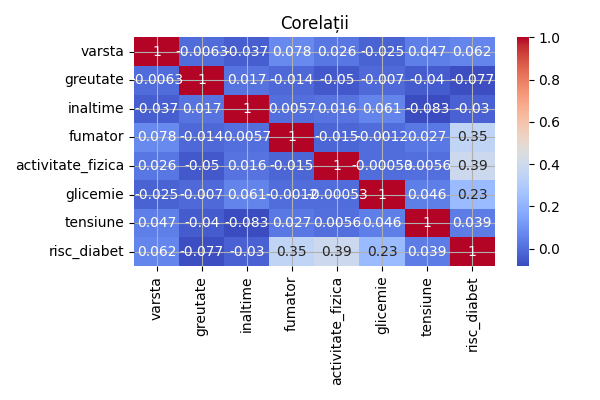
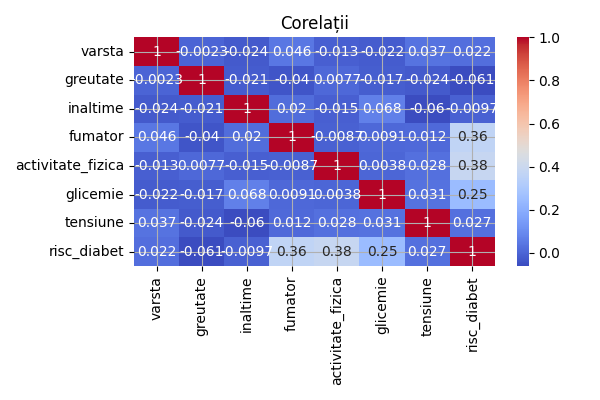
Done

diff --git a/ParteaI/main.py b/ParteaI/main.py
@@ -1,17 +1,14 @@
 import numpy as np
 import pandas as pd
 from data_load import generate_patient_data
-from plot import Heatmap
+from plot import Heatmap, Heatmap2
 from print import printf
 from model import train
 from read_data import read
-from missing_values import generate_missing_values
-from missing_values import fill_missing_values
-from descriptive import description
-from descriptive import variable_distribution
-from descriptive import boxplot
-from descriptive import replace_absurd_values
-from plot import violin_plots
+from missing_values import generate_missing_values, fill_missing_values
+from descriptive import description, variable_distribution, boxplot, variable_distribution2, boxplot2, replace_absurd_values
+from plot import violin_plots, violin_plots2
+from type import type
 
 print()
 print("Do you want to generate a new dataset? (y/n)")
@@ -24,23 +21,43 @@ else:
     df = pd.read_csv("train.csv")
 
 # Le facem de tip category
-df['fumator'] = df['fumator'].astype('category')
-df['risc_diabet'] = df['risc_diabet'].astype('category')
-df['activitate_fizica'] = df['activitate_fizica'].astype('category')
+df = type(df)
 
 
+# Generam valori lipsa
 generate_missing_values(df)
+# Inlocuim valorile lipsa
 fill_missing_values(df)
+# Facem o descriere a datelor
 description(df)
 variable_distribution(df)
 boxplot(df)
+# Inlocuim valorile absurde
 replace_absurd_values(df)
 
 
 
 
 train_df, test_df, y_pred, y_test = train(df)
-printf(y_test, y_pred)
-
+# Printam predictiile vs realitate
 violin_plots(df)
-Heatmap(train_df)
+Heatmap(df)
+printf(y_test, y_pred)
+test_df = type(test_df)
+
+# Pentru datele de test
+# Facem o descriere a datelor
+print("Statistici teste:")
+print()
+# Generam valori lipsa
+generate_missing_values(test_df)
+# Inlocuim valorile lipsa
+fill_missing_values(test_df)
+# Facem o descriere a datelor
+description(test_df)
+variable_distribution2(test_df)
+boxplot2(test_df)
+
+# Plotam datele
+violin_plots2(test_df)
+Heatmap2(test_df)

diff --git a/ParteaI/descriptive.py b/ParteaI/descriptive.py
@@ -32,6 +32,7 @@ def variable_distribution(df):
         plt.savefig(f'images/hist/{col}_countplot.png')
         plt.close()
 
+
 def boxplot(df):
     numeric_cols = df.select_dtypes(include=['int64', 'float64']).columns
     for col in numeric_cols:
@@ -39,6 +40,35 @@ def boxplot(df):
         sns.boxplot(x=df[col])
         plt.title(f'Boxplot: {col}')
         plt.savefig(f'images/boxplot/{col}_boxplot.png')
+        plt.close()
+
+def variable_distribution2(df):
+    numeric_cols = df.select_dtypes(include=['int64', 'float64']).columns
+    categorical_cols = df.select_dtypes(include=['object', 'category']).columns 
+    
+    # histograma pentru variabile numerice
+    for col in numeric_cols:
+        plt.figure()
+        sns.histplot(df[col], kde=True)
+        plt.title(f'Distribuția: {col}')
+        plt.savefig(f'images/hist/{col}_hist-test.png')
+        plt.close()
+
+    # Countplot pentru categorice
+    for col in categorical_cols:
+        plt.figure()
+        sns.countplot(x=col, data=df)
+        plt.title(f'Distribuție categorică: {col}')
+        plt.savefig(f'images/hist/{col}_countplot-test.png')
+        plt.close()
+
+def boxplot2(df):
+    numeric_cols = df.select_dtypes(include=['int64', 'float64']).columns
+    for col in numeric_cols:
+        plt.figure()
+        sns.boxplot(x=df[col])
+        plt.title(f'Boxplot: {col}')
+        plt.savefig(f'images/boxplot/{col}_boxplot-test.png')
         plt.close()
 
 def replace_absurd_values(df):

diff --git a/ParteaI/plot.py b/ParteaI/plot.py
@@ -14,7 +14,7 @@ def Heatmap(train_df):
 
 def violin_plots(df):
     target = 'risc_diabet'
-    cols = [df.columns[i] for i in range(1, 7)]
+    cols = [df.columns[i] for i in range(0, 7)]
     target = 'risc_diabet'
 
     for col in cols:
@@ -26,6 +26,28 @@ def violin_plots(df):
         plt.grid(True)
         plt.tight_layout()
         plt.savefig(f'images/violin/violin_{col}_vs_{target}.png')  # salvează imaginea
+
+def Heatmap2(train_df):
+    corr = train_df.corr()
+    sns.heatmap(corr, annot=True, cmap='coolwarm')
+    plt.title("Corelații")
+    plt.tight_layout()
+    plt.savefig(f'images/Heatmap-test.png')
+
+def violin_plots2(df):
+    target = 'risc_diabet'
+    cols = [df.columns[i] for i in range(0, 7)]
+    target = 'risc_diabet'
+
+    for col in cols:
+        plt.figure(figsize=(6, 4))
+        sns.violinplot(x=target, y=col, data=df)
+        plt.title(f'Violin Plot: {col} vs. {target}')
+        plt.xlabel('Risc Diabet')
+        plt.ylabel(col.capitalize())
+        plt.grid(True)
+        plt.tight_layout()
+        plt.savefig(f'images/violin/violin_{col}_vs_{target}-test.png')  # salvează imaginea
 
 
 if __name__ == '__main__':

diff --git a/ParteaI/model.py b/ParteaI/model.py
@@ -7,10 +7,10 @@ import pandas as pd
 
 def train(df):
 
-# Split train/test
+# Impartim datele in train si test
     train_df, test_df = train_test_split(df, test_size=0.285, random_state=42)
 
-# Encode categorice
+# Encodam datele
     combined = pd.concat([train_df, test_df])
     for col in ['activitate_fizica']:
        le = LabelEncoder()
@@ -18,15 +18,16 @@ def train(df):
     train_df = combined.iloc[:len(train_df)]
     test_df = combined.iloc[len(train_df):]
 
-# Train/test split
+# Splituim datele
     X_train = train_df.drop(columns=['risc_diabet'])
     y_train = train_df['risc_diabet']
     X_test = test_df.drop(columns=['risc_diabet'])
     y_test = test_df['risc_diabet']
 
-# Train model
+# Antrenam modelul
     model = LogisticRegression(max_iter=1000)
     model.fit(X_train, y_train)
     y_pred = model.predict(X_test)
 
+# Afisam rezultatele
     return train_df, test_df, y_pred, y_test

diff --git a/ParteaI/type.py b/ParteaI/type.py
@@ -1,0 +1,5 @@
+def type(df):
+    df['fumator'] = df['fumator'].astype('category')
+    df['risc_diabet'] = df['risc_diabet'].astype('category')
+    df['activitate_fizica'] = df['activitate_fizica'].astype('category')
+    return df
